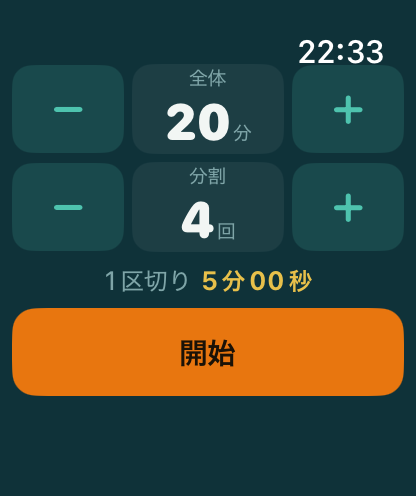
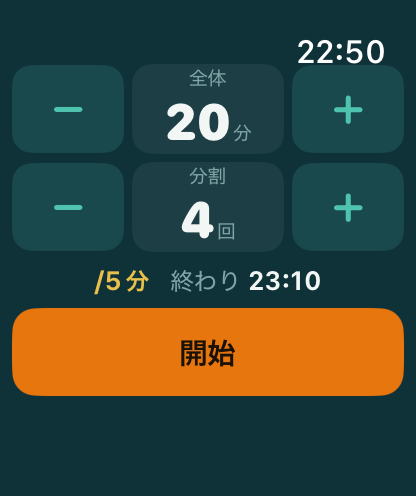
設定画面に「終わる時刻」を出す
「1区切り 5分00秒」を「/5分」に縮めた。これで意味は通るし、横幅が空く。
空いたところに、いま始めたら終わる時刻を出す。

    /5分　終わり 23:09

練習の予定と突き合わせるとき、20分という長さより「何時に終わるか」のほうが
役に立つ。分割を変えると1区切りの長さが、全体を変えると終わる時刻が、
その場で動く。

現在時刻から出すので TimelineView(.everyMinute) で1分ごとに引き直す。秒は要らない。
24時間表記かどうかは端末の設定に従わせている。

確認:
- 7分・9分割 → /47秒（46.67秒を切り上げ）
- 180分・7分割 → /25分43秒。40mm でも1行に収まる
- 日付をまたぐ設定でも時刻は正しく出る（22:49 + 180分 → 1:49）

Changed region(s): [[0.2188, 0.5444, 0.7812, 0.6048], [0.7188, 0.0605, 0.9375, 0.121]]

diff --git a/IntervalTimer/IntervalTimer/Views/SetupView.swift b/IntervalTimer/IntervalTimer/Views/SetupView.swift
@@ -167,15 +167,38 @@ struct SetupView: View {
 
     // MARK: - プレビュー
 
+    /// 1区切りの長さと、いま始めたら終わる時刻。
+    ///
+    /// 「1区切り 5分00秒」は長い。**`/5分` で意味は通る。**
+    /// 空いた横幅に「終わり 22:55」を出す。練習の予定と突き合わせるとき、
+    /// 20分という長さより「何時に終わるか」のほうが役に立つ。
     private var preview: some View {
-        HStack(spacing: 4) {
-            Text("1区切り")
-                .foregroundStyle(Skin.normal.inkDim)
-            Text(TimeText.japanese(config.splitSeconds))
-                .fontWeight(.semibold)
-                .foregroundStyle(Skin.normal.accent)
+        // 現在時刻から出すので、1分ごとに引き直す。秒までは要らない。
+        TimelineView(.everyMinute) { timeline in
+            HStack(spacing: 10) {
+                Text("/\(TimeText.brief(config.splitSeconds))")
+                    .fontWeight(.semibold)
+                    .foregroundStyle(Skin.normal.accent)
+
+                HStack(spacing: 3) {
+                    Text("終わり")
+                        .foregroundStyle(Skin.normal.inkDim)
+                    Text(endTime(startingAt: timeline.date))
+                        .fontWeight(.semibold)
+                        .foregroundStyle(Skin.normal.ink)
+                }
+            }
+            .font(.system(size: 14))
+            .lineLimit(1)
+            .minimumScaleFactor(0.7)
+            .frame(minHeight: 20)
         }
-        .font(.system(size: 14))
-        .frame(minHeight: 20)
+    }
+
+    /// いま始めたら終わる時刻。`22:55` のように分まで。
+    /// 24時間表記かどうかは端末の設定に従わせる。
+    private func endTime(startingAt now: Date) -> String {
+        now.addingTimeInterval(config.totalSeconds)
+            .formatted(date: .omitted, time: .shortened)
     }
 }

diff --git a/IntervalTimerCore/Sources/IntervalTimerCore/TimeText.swift b/IntervalTimerCore/Sources/IntervalTimerCore/TimeText.swift
@@ -28,7 +28,17 @@ public enum TimeText {
         return String(format: "%d:%02d", s / 60, sec)
     }
 
-    /// `5分00秒`。設定画面のプレビュー用。
+    /// `1分` `47秒` `2分20秒`。**ぴったりなら秒を出さない。**
+    /// 設定画面で「1区切りの長さ」を短く見せるのに使う。
+    public static func brief(_ seconds: Double) -> String {
+        let s = Int(ceil(max(0, seconds) - epsilon))
+        let m = s / 60, sec = s % 60
+        if m == 0 { return "\(sec)秒" }
+        if sec == 0 { return "\(m)分" }
+        return "\(m)分\(sec)秒"
+    }
+
+    /// `5分00秒`。
     public static func japanese(_ seconds: Double) -> String {
         let s = Int(ceil(max(0, seconds) - epsilon))
         let m = s / 60, sec = s % 60

diff --git a/IntervalTimerCore/Tests/IntervalTimerCoreTests/TimeTextTests.swift b/IntervalTimerCore/Tests/IntervalTimerCoreTests/TimeTextTests.swift
@@ -48,6 +48,16 @@ struct TimeTextTests {
         #expect(TimeText.clock(1200.0 - 0.0) == "20:00")
     }
 
+    @Test func 短い表記はぴったりなら秒を出さない() {
+        #expect(TimeText.brief(60) == "1分")
+        #expect(TimeText.brief(300) == "5分")
+        #expect(TimeText.brief(47) == "47秒")
+        #expect(TimeText.brief(140) == "2分20秒")
+        #expect(TimeText.brief(0) == "0秒")
+        // 20分を12分割すると100秒。1分40秒
+        #expect(TimeText.brief(100) == "1分40秒")
+    }
+
     @Test func プレビューの日本語表記() {
         #expect(TimeText.japanese(300) == "5分00秒")
         #expect(TimeText.japanese(140) == "2分20秒")
